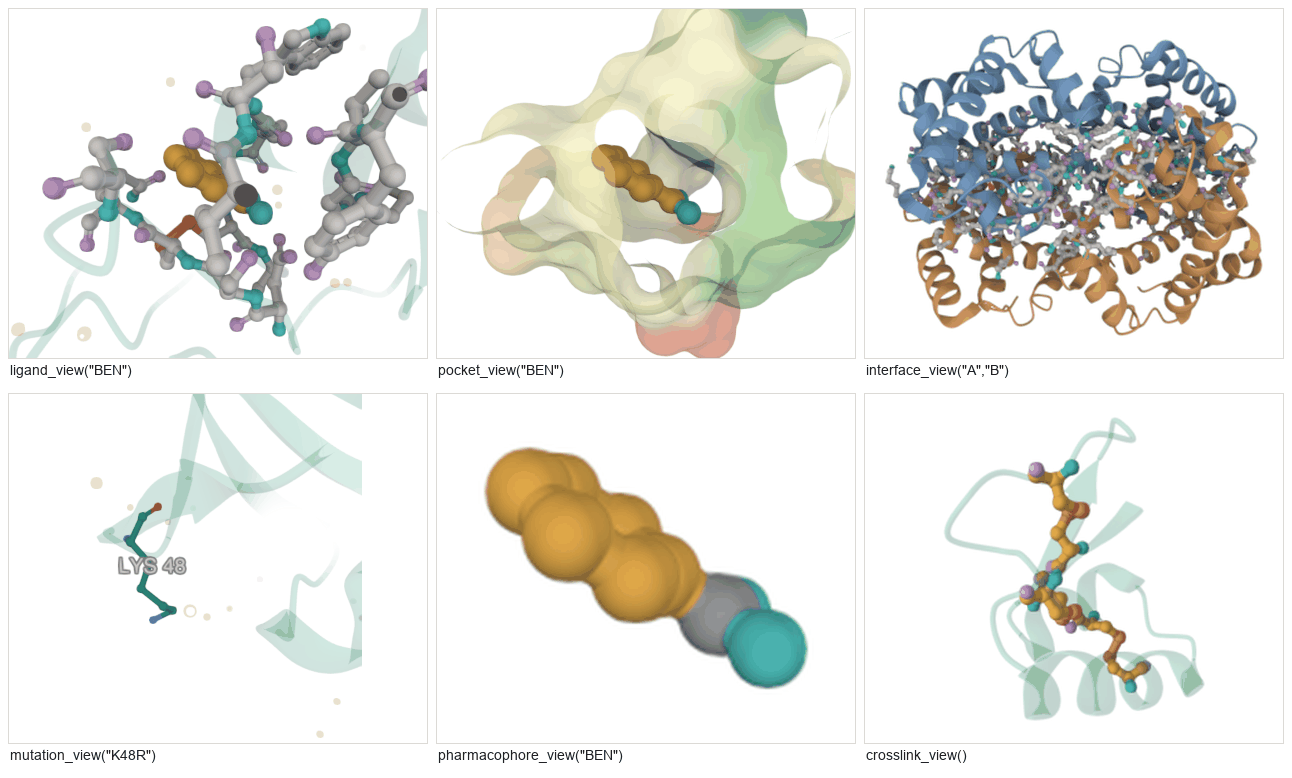
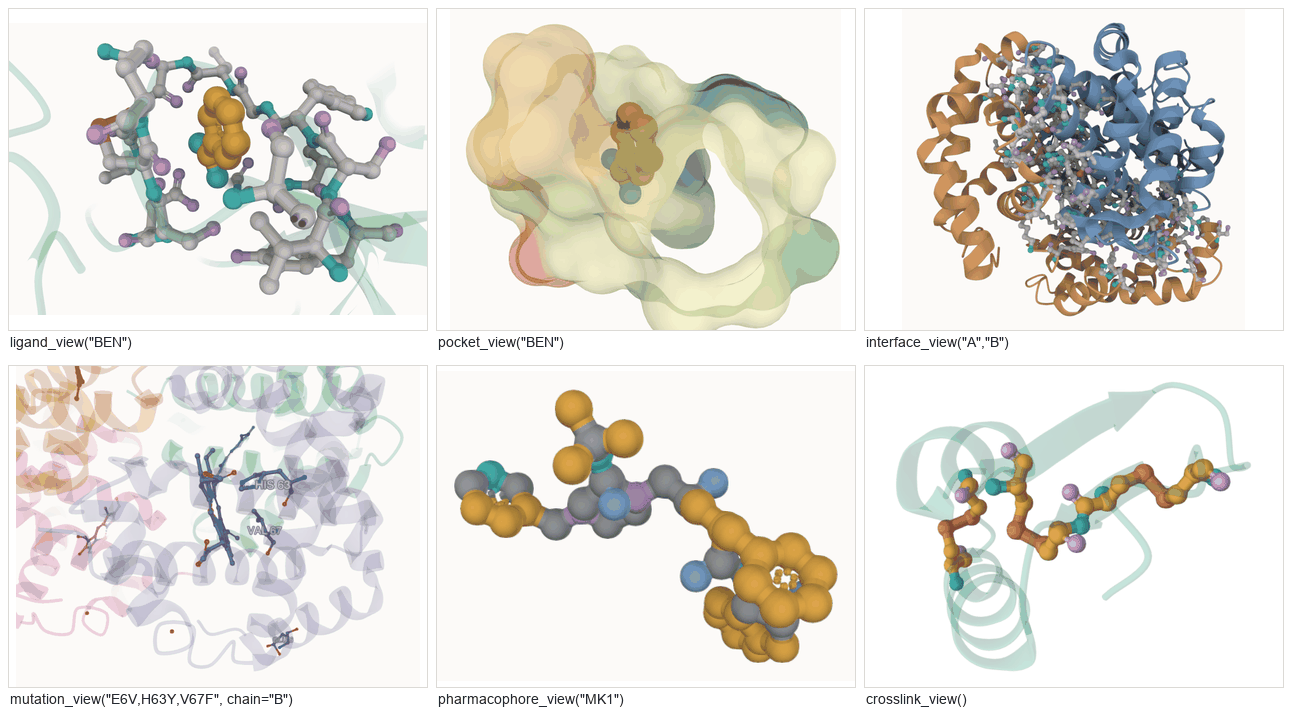
Give each one-call view its own picture at the size it needs
The eight views were six 420 px tiles on one shared contact sheet. At the width
a README column actually renders, that puts each at about 289 px — against the
800x600 the reference documentation this is modelled on gives every one of its
sixteen view figures. A seventh of the area, for the tools that are the point.

Each view is now photographed at 900 px and published under its own name, and
`views.png` is rebuilt from the same captures as an index rather than as the
primary artifact, so `cookbook.md` and the README keep working unchanged. The
six views go from 1.01 Mpx shared to 2.50 Mpx individually.

`conservation_view` and `electrostatic_view` get their first pictures, in a
separate `analysis-views` figure. Kept apart because both are expensive in a
way the other six are not — one solves a potential on a grid, the other waits
on an alignment search — and a figure run should be able to skip them without
skipping the cheap six.

Three subjects changed, all after opening the old sheet and looking at it.

**`mutation_view`** was K48R on ubiquitin: one lysine and a floating label in an
almost empty tile. It is now three positions on haemoglobin's beta chain, one of
them E6V, the best-known point mutation in biology. The reference documents
E6V/K16E/V67F and protean *refuses* that — position 16 of 4HHB chain B holds
GLY, not LYS — declining the whole spec rather than highlighting the wrong
residue. H63Y replaces it. Nothing is claimed about all three being disease
[…]

diff --git a/docs/figures/make_figures.py b/docs/figures/make_figures.py
@@ -634,37 +634,109 @@ async def interface() -> list[Path]:
 
 @figure("views")
 async def views() -> list[Path]:
-    """The one-call views, each on a structure that suits it."""
-    with scratch() as tmp:
-        tiles = []
+    """Every one-call view, each its own full-size figure.
 
-        await load("3ptb")
-        await server.ligand_view("BEN")
-        tiles.append(('ligand_view("BEN")', await capture(tmp / "ligand.png")))
+    These used to be six 420 px tiles on one shared sheet. At the width a
+    README column actually renders, that put each view at about 289 px against
+    the 800x600 a reader of the reference documentation gets — a seventh of the
+    area, for the tools that are the whole point. Each view is now photographed
+    at 900 px and published under its own name, and the sheet is rebuilt from
+    the same captures as an index rather than as the primary artifact.
 
-        await load("3ptb")
-        await server.pocket_view("BEN")
-        tiles.append(('pocket_view("BEN")', await capture(tmp / "pocket.png")))
+    Subjects matter more here than anywhere else in this file, because a view
+    can only show what its structure has to show. Two were changed after
+    someone opened the old sheet and looked: `mutation_view` on ubiquitin's
+    K48R was one lysine and a floating label in an almost empty tile, and
+    `pharmacophore_view` on nine-heavy-atom benzamidine was an orange
+    caterpillar with no protein anywhere near it.
+    """
+    shots: list[tuple[str, str, Path]] = []
 
-        await load("1hho")
-        await server.interface_view("A", "B")
-        tiles.append(('interface_view("A","B")', await capture(tmp / "iface.png")))
+    async def shoot(slug: str, label: str) -> None:
+        """Full size for the page, and the same frame for the index."""
+        shots.append(
+            (slug, label, trim(await capture(IMAGES / f"{slug}.png", pixels=900)))
+        )
 
-        await load("1ubq")
-        await server.mutation_view("K48R", chain="A")
-        tiles.append(('mutation_view("K48R")', await capture(tmp / "mutation.png")))
+    await load("3ptb")
+    await server.ligand_view("BEN")
+    await shoot("ligand-view", 'ligand_view("BEN")')
 
-        await load("3ptb")
-        await server.pharmacophore_view("BEN")
-        tiles.append(('pharmacophore_view("BEN")', await capture(tmp / "pharm.png")))
+    await load("3ptb")
+    await server.pocket_view("BEN")
+    await shoot("pocket-view", 'pocket_view("BEN")')
 
-        # Crambin, for its three disulfides. crosslink_view refuses outright on
-        # a structure with neither a disulfide nor a metal — which ubiquitin is.
-        await load("1crn")
-        await server.crosslink_view(distance=2.5)
-        tiles.append(("crosslink_view()", await capture(tmp / "crosslink.png")))
+    await load("1hho")
+    await server.interface_view("A", "B")
+    await shoot("interface-view", 'interface_view("A","B")')
 
-        return [contact_sheet(IMAGES / "views.png", tiles, columns=3, share_frame=False)]
+    # Haemoglobin, not ubiquitin's K48R, and three positions rather than one.
+    # K48R alone came out as a single lysine and a floating label in an almost
+    # empty tile; three sites give the view something to frame around, and E6V
+    # is the best-known point mutation in biology.
+    #
+    # The reference documentation for the tool this is modelled on shows
+    # E6V/K16E/V67F. K16E does not verify here — position 16 of 4HHB chain B
+    # holds GLY, not LYS — and the view refuses the whole spec rather than
+    # highlight the wrong residue, which is the behaviour worth having. H63Y
+    # replaces it. Nothing is claimed about all three being disease variants;
+    # they are three positions that are what the notation says they are.
+    await load("4hhb")
+    await server.mutation_view("E6V,H63Y,V67F", chain="B")
+    await shoot("mutation-view", 'mutation_view("E6V,H63Y,V67F", chain="B")')
+
+    # Indinavir in HIV protease, not benzamidine. Benzamidine has nine
+    # heavy atoms; a view whose subject is what each ligand atom can *do*
+    # needs a ligand with enough atoms to do several different things.
+    await load("1hsg")
+    await server.pharmacophore_view("MK1")
+    await shoot("pharmacophore-view", 'pharmacophore_view("MK1")')
+
+    # Crambin, for its three disulfides. crosslink_view refuses outright on
+    # a structure with neither a disulfide nor a metal — which ubiquitin is.
+    await load("1crn")
+    await server.crosslink_view(distance=2.5)
+    await shoot("crosslink-view", "crosslink_view()")
+
+    return [
+        *(path for _, _, path in shots),
+        contact_sheet(
+            IMAGES / "views.png",
+            [(label, path) for _, label, path in shots],
+            columns=3,
+            share_frame=False,
+        ),
+    ]
+
+
+@figure("analysis-views")
+async def analysis_views() -> list[Path]:
+    """The two views that wrap an analysis rather than a selection.
+
+    Kept apart from `views` because both are expensive in a way the others are
+    not — one solves a potential on a grid, the other waits on an alignment
+    search — and a figure run should be able to skip them without skipping the
+    cheap six.
+    """
+    shots = []
+
+    # Trypsin rather than ubiquitin, and the reason is worth recording. Under
+    # the default `scale="relative"` the ramp is stretched across whatever
+    # entropy range the protein has, so the full blue-to-red spread is used no
+    # matter how conserved the protein actually is. Rendered on 1UBQ that
+    # produces a mostly-red picture of one of the most conserved proteins in
+    # biology — true to the scaling and the opposite of the truth to a reader.
+    # Trypsin has the story the ramp is good at: an invariant catalytic triad
+    # inside variable surface loops.
+    await load("3ptb")
+    await server.conservation_view()
+    shots.append(trim(await capture(IMAGES / "conservation-view.png", pixels=900)))
+
+    await load("1ubq")
+    await server.electrostatic_view(method="coulombic")
+    shots.append(trim(await capture(IMAGES / "electrostatic-view.png", pixels=900)))
+
+    return shots
 
 
 @figure("plddt")
